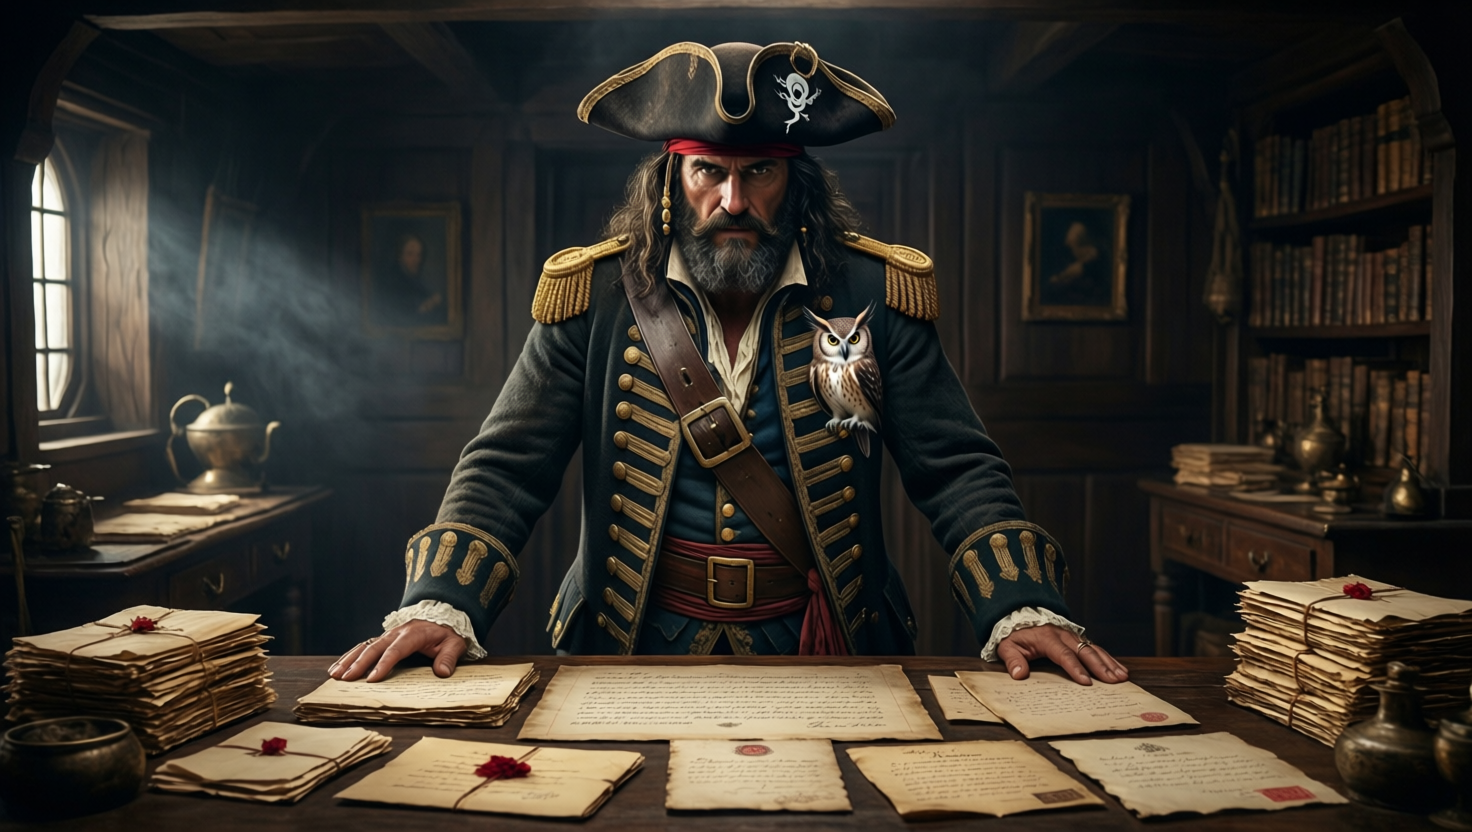
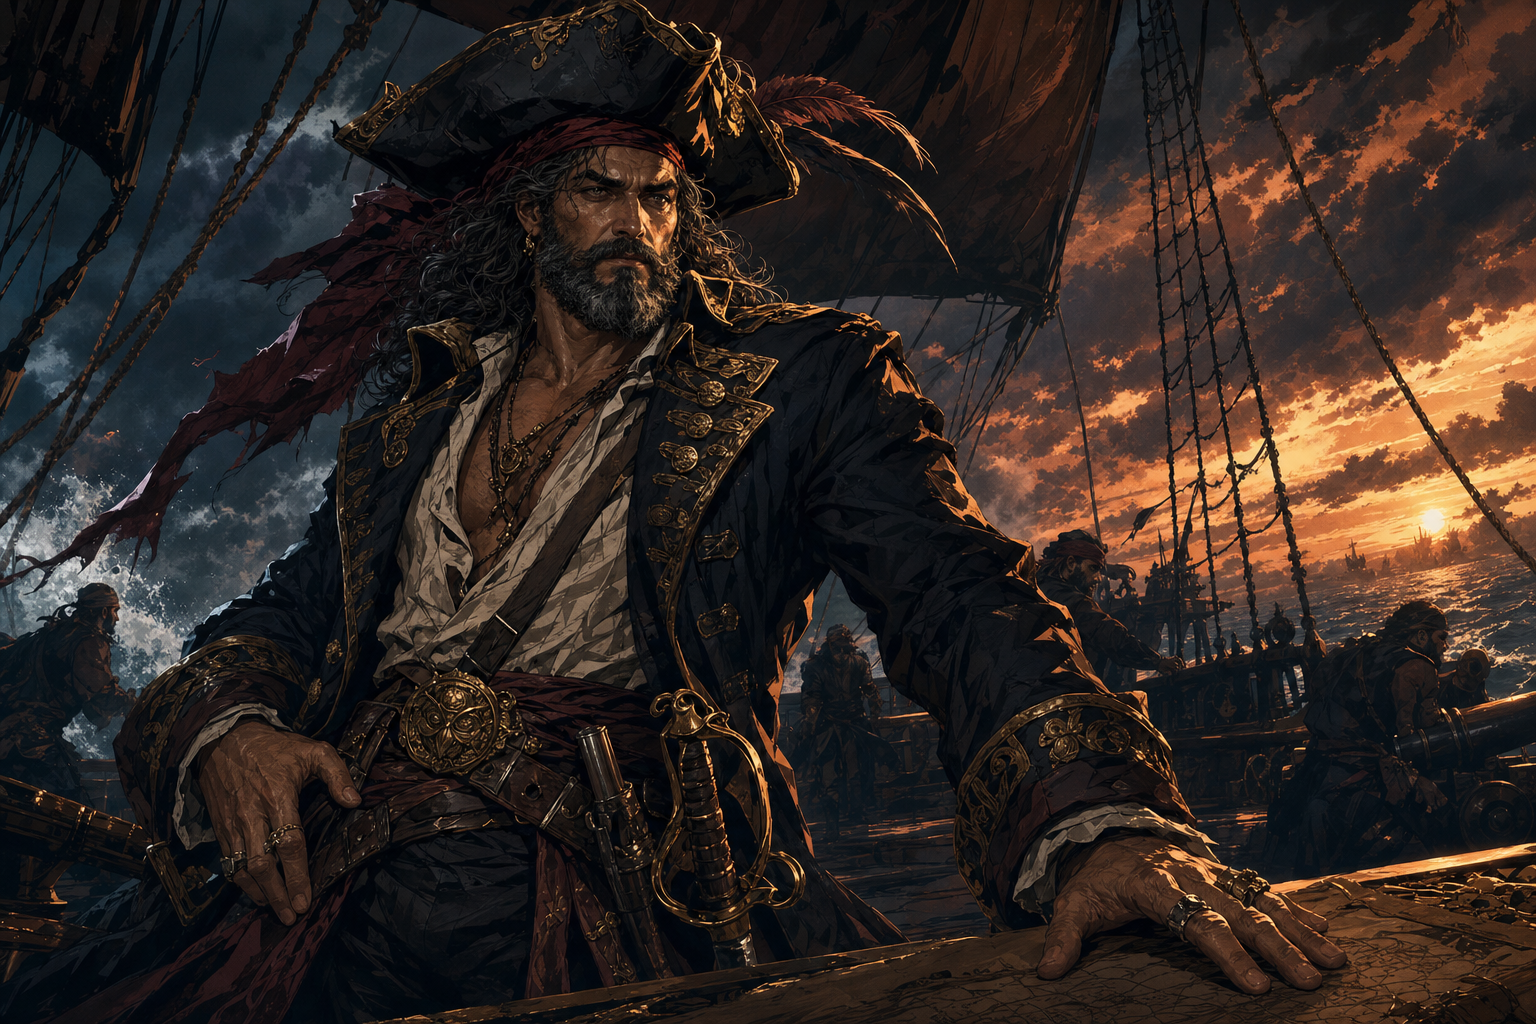
Publish character art and Hero Lab fatal flaws

diff --git a/CHANGELOG.md b/CHANGELOG.md
@@ -1,5 +1,36 @@
 # Change Log
 
+## Expand party-adjacent NPC and artifact artwork - 2026-08-03
+
+- Rebuilt Achilles as a mythic, painterly Dogs of War champion at Misthold.
+- Added Queen Lidda Beaumont's decisive victory over Ares as a separate event
+  illustration while retaining her established identity reference.
+- Added production character-reference sheets for Alley and Tulip, preserving
+  Alley's design and refining Tulip into a slimmer, more handsome adult gnome.
+- Upgraded Queen Beaumont's red-tasseled longsword to the established
+  standalone artifact-reliquary presentation.
+- Synchronized Wiki art into the main repository's people, events, characters,
+  and artifacts mirrors.
+
+## Add Paranoia and Misjudging Intentions to Hero Lab - 2026-08-03
+
+- Extended the recoverable Godling Fatal Flaw chooser from 100 to 102 choices.
+- Added `Paranoia`, using its confirmed failed-save behavior, and `Misjudging
+  Intentions`, which applies a -20 penalty to Sense Motive when the subject is
+  a woman.
+- Updated the Hero Lab recovery manifest for the synchronized catalog.
+- Added the path-neutral repository generator and documented the regeneration,
+  synchronization, Quick Reload, and validation workflow.
+
+## Replace Smokey Roberts's canonical portrait - 2026-08-03
+
+- Replaced the generic realistic war-table portrait with the user-directed
+  canonical design: an older, bearded paternal likeness of Demidius rendered
+  as a formidable Pirate King in a Hades-inspired graphic-painterly style.
+- Added the canonical appearance to the Wiki page and synchronized the
+  main-repository mirror. The former interpretive local master remains
+  preserved as a versioned backup outside Git.
+
 ## Complete Perlot's deity portrait treatment - 2026-08-03
 
 - Added the omitted Perlot portrait to the deterministic deity title-card

diff --git a/systems/herolab/README.md b/systems/herolab/README.md
@@ -15,6 +15,9 @@ project-authored Hero Lab Classic Pathfinder extensions.
   adding the Godling/Mythic page, lower full-color portrait watermark, Race
   truncation, and product-logo removal.
 - `MANIFEST.sha256`: hashes for all 40 backed-up runtime files.
+- `scripts/generate_fatal_flaw_catalog.ps1`: path-neutral, recoverable generator
+  for the 100 workbook choices plus campaign-specific Paranoia and Misjudging
+  Intentions.
 
 The snapshot intentionally excludes portfolios (`.por`), extracted character
 data, portraits, temporary renders, stock Hero Lab files, community packs,
@@ -34,6 +37,23 @@ ShadowChemosh imports, failed experiments, and retired/duplicate files.
 The Godly Powers feature requires its complete family of structural files and
 catalogs; restore the entire `data/pathfinder` directory rather than selecting
 only `Codex_Godly_Powers_V1.user`.
+
+## Fatal Flaw catalog workflow
+
+1. Update the authoritative 100-row workbook table through the Wiki page
+   `Fatal-Flaw-Catalog.md`; keep campaign-specific additions in the generator.
+2. From the main repository, run:
+   `& .\systems\herolab\scripts\generate_fatal_flaw_catalog.ps1`.
+3. Confirm 102 `xCFF` choices, six `xCdxFlw` helpers, unique Thing IDs, and
+   valid XML.
+4. Synchronize the generated file to the Project staging folder and
+   `C:\ProgramData\Hero Lab\data\pathfinder`.
+5. Use **Develop -> Quick Reload Data Files**, test without saving a live
+   portfolio, and update `MANIFEST.sha256` with the final digest.
+
+The supplemental choices are `xCFF101` Paranoia and `xCFF102` Misjudging
+Intentions. Misjudging Intentions applies -20 to Sense Motive checks when the
+subject is a woman.
 
 ## Integrity
 

diff --git a/codex/FATAL_FLAW_DEFENSE.md b/codex/FATAL_FLAW_DEFENSE.md
@@ -27,7 +27,7 @@ depends:
 |---|---|---|---|
 | Daily gambling | Must gamble each day | Low if scheduled | Resolve a controlled wager early each day |
 | Battle commitment | Must save to stop once engaged in a fight | High | Preauthorized extraction plan; contingency and ally intervention |
-| Misjudging intentions | -20 judging women or effeminate men's intentions | Very high in diplomacy | Independent Sense Motive, divination, written review protocol |
+| Misjudging intentions | -20 Sense Motive when the subject is a woman | Very high in diplomacy | Independent Sense Motive, divination, written review protocol |
 | Paranoia | On failed save, spy or take excessive precautions | High at campaign scale | Trusted-officer review, decision deadlines, objective evidence standards |
 
 ## Party procedures

diff --git a/appendices/campaign-rules.md b/appendices/campaign-rules.md
@@ -136,7 +136,7 @@ This appendix is the canonical source for rulings used throughout **The Arrival*
 - **Status:** Verified Campaign Rule
 - **Daily gambling:** Demidius must gamble each day.
 - **Battle commitment:** After becoming engaged in a fight, Demidius must succeed at the Fatal Flaw save to voluntarily stop fighting.
-- **Misjudging intentions:** Demidius takes a **-20 penalty** when judging the intentions of women or effeminate men.
+- **Misjudging intentions:** Demidius takes a **-20 penalty on Sense Motive checks** when the subject is a woman.
 - **Paranoia:** After using the Key of Daedalus, Demidius permanently gains Paranoia. On a failed Fatal Flaw save, he must act on paranoid impulses, such as spying on people or taking excessive precautions.
 
 ### CR-18 — Key of Daedalus

diff --git a/campaign/demidius_romantic_history.md b/campaign/demidius_romantic_history.md
@@ -39,7 +39,7 @@ Demidius has never met Pirate Queen Rosalind Galeheart. Aphrodite nevertheless c
 - Aristea's preexisting love is not established by the demiplane's Loyalty effect, and the effect's later influence remains unresolved.
 - Nyssa's rejection and subsequent betrayal are separate facts; no causal connection is confirmed.
 - The Rosalind episode illustrates divine intrusion into consent and judgment rather than a mutual romance.
-- Demidius's romantic-intentions Fatal Flaw may impair his judgment, but it does not explain or excuse other characters' choices.
+- Demidius's Misjudging Intentions Fatal Flaw may impair his Sense Motive when the subject is a woman, but it does not explain or excuse other characters' choices.
 
 ## Related records
 

diff --git a/engines/03_INFLUENCE_ENGINE.md b/engines/03_INFLUENCE_ENGINE.md
@@ -19,4 +19,4 @@ Influence combines Charisma, diplomacy, leadership, divine reputation, social ma
 
 ## Safeguard doctrine
 
-Demidius's -20 vulnerability when judging the intentions of women or effeminate men requires independent review of important social conclusions. Major commitments should be checked by trusted allies, divinations, or objective evidence.
+Demidius's Misjudging Intentions Fatal Flaw imposes -20 on Sense Motive checks when the subject is a woman. Important social conclusions require independent review through trusted allies, divinations, or objective evidence.

diff --git a/codex/SYNERGY_MATRIX.md b/codex/SYNERGY_MATRIX.md
@@ -74,7 +74,7 @@
 |---|---|---|
 | Daily gambling | Mandatory daily behavior | Controlled scheduled wager |
 | Battle commitment | Save required to stop fighting | Preplanned extraction and ally authority |
-| Misjudging intentions | -20 against women or effeminate men | Independent verification and divination |
+| Misjudging intentions | -20 Sense Motive when the subject is a woman | Independent verification and divination |
 | Paranoia | Spying/excessive precautions on failed save | Trusted-officer review and decision protocol |
 
 

diff --git a/appendices/fatal_flaws.md b/appendices/fatal_flaws.md
@@ -21,7 +21,7 @@ After entering a fight, Demidius must save to voluntarily stop. Establish party 
 
 ## FF-03 — Misjudging Intentions
 
-Demidius takes -20 when judging the intentions of women or effeminate men. Important conclusions require independent verification.
+Demidius takes -20 on Sense Motive checks when the subject is a woman. Important conclusions require independent verification.
 
 ## FF-04 — Paranoia
 
